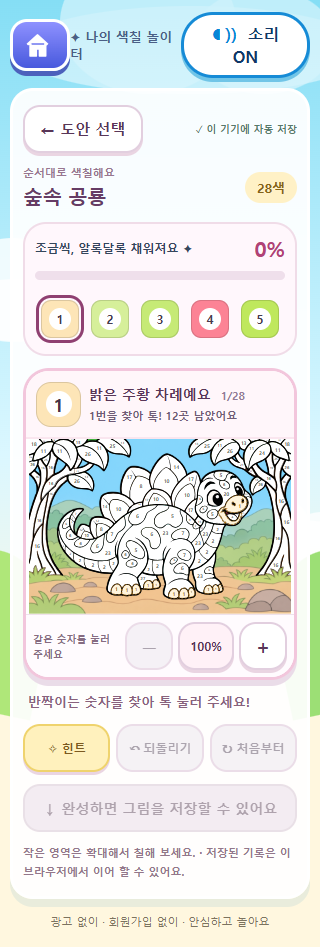
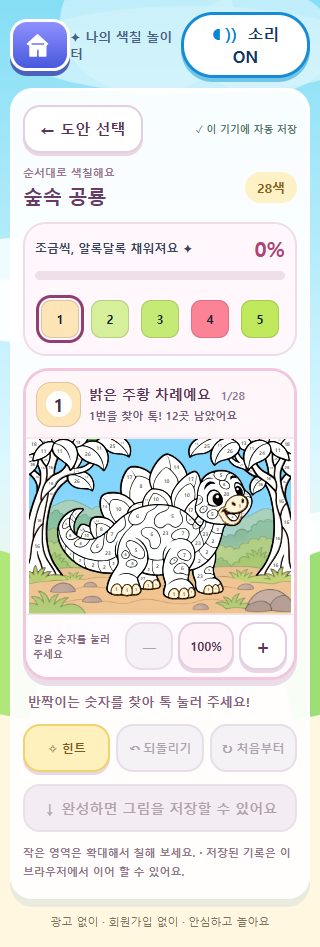
fix: show palette colors clearly and cap all hints at 300 percent

diff --git a/src/games/coloring/coloring.css b/src/games/coloring/coloring.css
@@ -1,5 +1,5 @@
 .coloring-game{--cg-ink:#593658;--cg-pink:#dc578a;color:#35465c;font-weight:700;width:100%;min-width:0}.coloring-game *{box-sizing:border-box}.coloring-game h1,.coloring-game h2,.coloring-game p{margin:0}.coloring-game button{cursor:pointer;min-height:48px;border:2px solid #e2cfdf;border-radius:17px;background:#fff;color:#593658;padding:10px 15px;box-shadow:0 3px 0 #ead5e2;font-size:15px}.coloring-game button:disabled{cursor:default;color:#887e8c;background:#f1edf2;box-shadow:none;opacity:.7}.coloring-game button:hover:not(:disabled){background:#fff1f7}.coloring-game button:focus-visible{outline:4px solid #146cad;outline-offset:3px}.coloring-game .artwork{display:block;width:100%;height:auto}.gallery-heading{display:flex;align-items:center;justify-content:space-between;padding:15px 28px 22px}.cg-eyebrow{color:#9a5276;font-size:13px;letter-spacing:.05em;margin-bottom:8px!important}.gallery-heading h2{font-size:clamp(24px,3vw,36px);color:#763b63;letter-spacing:-.06em;margin-bottom:10px}.gallery-heading p:last-child{font-size:15px;color:#69788c}.gallery-sticker{display:grid;place-items:center;width:85px;height:85px;border-radius:26px;background:#ffe4b6;border:4px solid #fff;color:#cf7b30;font-size:55px;transform:rotate(12deg);box-shadow:0 5px 0 #f3d499}.drawing-grid{display:grid;grid-template-columns:repeat(5,minmax(0,1fr));gap:16px}.coloring-game .drawing-card{padding:12px 12px 16px;border:3px solid #edb6cf;border-radius:28px;background:#fff5fa;display:flex;align-items:center;flex-direction:column;gap:12px;min-width:0;box-shadow:0 6px 0 #edc7d5}.drawing-preview{display:block;width:100%;background:#fff;border-radius:18px;overflow:hidden;border:1px solid #ecdfe7}.drawing-preview .artwork{aspect-ratio:4/5;object-fit:contain}.drawing-card strong{font-size:18px;letter-spacing:-.05em;color:#633f62}.drawing-meta{font-size:12px;color:#7c6377}.drawing-start{background:#fff;border-radius:20px;padding:9px 12px;color:#ad426f;font-size:13px;width:100%;border:1px solid #eed2e2}.drawing-start span{margin-left:5px}.coloring-game .drawing-mint{background:#edfbf5;border-color:#aadfca;box-shadow:0 6px 0 #c4e8d8}.coloring-game .drawing-lemon{background:#fffbe6;border-color:#f0d877;box-shadow:0 6px 0 #efe1a9}.coloring-game .drawing-lavender{background:#f5edff;border-color:#cdb2e8;box-shadow:0 6px 0 #decdf2}.coloring-game .drawing-peach{background:#fff0e9;border-color:#edc3aa;box-shadow:0 6px 0 #f2d7c6}.gallery-note{text-align:center;color:#856377;font-size:13px;padding:25px 10px 5px;line-height:1.7}
-.coloring{display:grid;grid-template-columns:minmax(0,1fr) 300px;grid-template-areas:'heading heading' 'title title' 'canvas progress' 'canvas message' 'canvas actions' 'canvas download' 'canvas note';grid-template-rows:auto auto auto auto auto auto 1fr;gap:12px 20px;min-width:0}.coloring-heading{grid-area:heading;display:flex;align-items:center;justify-content:space-between;gap:10px}.save-status{font-size:12px;color:#57796b}.drawing-title{grid-area:title;display:flex;align-items:center;justify-content:space-between;min-width:0}.drawing-title h1{font-size:23px;color:#663c65;letter-spacing:-.04em}.eyebrow{font-size:11px;color:#987691;display:block;margin-bottom:3px}.drawing-size{background:#fff1c6;color:#856219;border-radius:18px;font-size:13px;padding:7px 12px}.progress-panel{grid-area:progress;background:#fff7fc;border:2px solid #f0dce8;padding:15px;border-radius:23px;min-width:0}.progress-top{display:flex;justify-content:space-between;gap:5px;font-size:12px;align-items:center}.progress-top strong{font-size:21px;color:#b24277}.progress-track{height:9px;background:#efdfeb;border-radius:20px;margin:9px 0 14px;overflow:hidden}.progress-track>span{display:block;height:100%;background:linear-gradient(90deg,#f7abbd,#ce6caf);border-radius:20px}.palette{display:grid;grid-template-columns:repeat(7,minmax(0,1fr));gap:9px;padding:5px;max-height:245px;overflow:auto}.color-chip{min-width:0;aspect-ratio:1;border-radius:10px;display:grid;place-items:center;border:1px solid #0002;position:relative}.color-chip>span:not(.sr-only){background:#fff;border-radius:50%;width:22px;height:22px;display:grid;place-items:center;font-size:12px;color:#493b50}.color-chip.selected{outline:3px solid #8f4071;outline-offset:2px}.canvas-panel{grid-area:canvas;min-width:0;border:3px solid #f2c6dc;background:#fff;border-radius:26px;overflow:hidden;box-shadow:0 6px 0 #eadce8;align-self:start}.current-instruction{display:flex;align-items:center;gap:10px;padding:10px 15px;border-bottom:2px solid #fae6ef;background:#fff6fa;min-height:68px}.current-number{width:45px;height:45px;border-radius:15px;display:grid;place-items:center;flex-shrink:0;border:1px solid #0002}.current-number>span{color:#443346;background:#fff;border-radius:50%;width:26px;height:26px;display:grid;place-items:center;font-size:18px}.current-instruction>div{display:flex;flex-direction:column;gap:5px;font-size:12px;color:#705c77}.current-instruction strong{font-size:16px;color:#593658}.step-count{font-size:11px;color:#947c98;margin-left:5px}.canvas-tag{margin-left:auto;font-size:11px;background:#fff;border-radius:14px;padding:7px 10px;white-space:nowrap;color:#9a7090}.canvas-scroll{--canvas-height:clamp(300px,calc(100svh - 327px),660px);--canvas-width:calc(var(--canvas-height)*var(--art-ratio));height:var(--canvas-height);overflow:auto;overscroll-behavior:contain;touch-action:pan-x pan-y pinch-zoom;background:radial-gradient(#efdfeb 1px,transparent 1px) 0 0/18px 18px}.canvas-scale{margin:0 auto}.canvas-panel .artwork{background:#fff}.paint-region{cursor:pointer;transition:fill .12s;touch-action:manipulation}.paint-region[data-painted=true]{cursor:default}.paint-region.is-current{stroke:#bd843a;stroke-width:3;stroke-dasharray:8 6;fill:#fff4dc}.paint-region.is-hint{stroke:#217ba4;stroke-width:6;fill:#ffdf83}.paint-region:focus-visible{outline:none;stroke:#086fa7;stroke-width:7}.zoom-tools{display:flex;justify-content:space-between;align-items:center;gap:8px;padding:6px 10px;border-top:1px solid #f0e2eb;background:#fffbfe}.zoom-tools>span{font-size:11px;color:#866b82}.zoom-tools>div{display:flex;gap:5px}.coloring-game .icon-button{min-width:48px;padding:5px;font-size:20px;min-height:48px}.coloring-game .zoom-label{min-width:56px;padding:4px;font-size:12px}.encouragement{grid-area:message;min-height:43px;font-size:13px;line-height:1.6;color:#89627d;padding:0 5px}.action-bar{grid-area:actions;display:grid;grid-template-columns:repeat(2,minmax(0,1fr));gap:10px}.coloring-game .action-bar button{padding:10px 5px;font-size:14px}.coloring-game .action-bar .hint-button{grid-column:1/-1;background:#fff1bd;border-color:#efd36d;color:#7c5a20}.download-button{grid-area:download;background:#da6699!important;color:#fff!important;border-color:#cc5489!important;font-size:14px!important}.download-button:disabled{background:#eee5ed!important;color:#8c7b8b!important;border-color:#e0d3dd!important}.small-note{grid-area:note;font-size:11px;line-height:1.7;color:#93778b}.storage-warning{grid-column:1/-1;background:#fff1ca;color:#7d5b16;padding:10px;border-radius:15px;font-size:13px}.coloring-game dialog{position:fixed;width:430px;max-width:calc(100% - 30px);border:3px solid #edb4d1;border-radius:30px;padding:28px;background:#fff9fd;text-align:center;box-shadow:0 12px 60px #503b5a55;color:#653c5e;max-height:90svh;overflow:auto}.coloring-game dialog::backdrop{background:#28446b66;backdrop-filter:blur(3px)}.coloring-game dialog h2{font-size:23px}.coloring-game dialog p{font-size:14px;line-height:1.8;margin:20px 0}.dialog-actions{display:flex;flex-direction:column;gap:12px}.coloring-game dialog .primary{background:#da6699;color:white;border-color:#c64c85}.trophy{font-size:65px;padding:15px}.confetti{display:none}.done-star{background:#ffe49a;color:#a27427}.is-playing{padding-top:12px!important}.is-playing .toolbar{max-width:1480px;margin:0 auto 10px;align-items:center}.is-playing .home{min-height:52px;min-width:60px;padding:5px 12px;border-radius:17px;flex-direction:row;gap:6px}.is-playing .home svg{width:25px;height:25px}.is-playing .sound{min-height:48px;font-size:16px;padding:8px 14px}.playing-name{color:#4a5f86;font-size:17px}.is-playing .game-shell{padding:18px 22px 20px;background:#ffffffed;border:3px solid #fff;border-radius:30px;box-shadow:0 8px 0 #6aaecb25;min-height:0}.is-playing footer{padding-top:15px;font-size:11px}.card:not(:disabled){cursor:pointer}.card:not(:disabled):hover{filter:brightness(1.03)}
+.coloring{display:grid;grid-template-columns:minmax(0,1fr) 300px;grid-template-areas:'heading heading' 'title title' 'canvas progress' 'canvas message' 'canvas actions' 'canvas download' 'canvas note';grid-template-rows:auto auto auto auto auto auto 1fr;gap:12px 20px;min-width:0}.coloring-heading{grid-area:heading;display:flex;align-items:center;justify-content:space-between;gap:10px}.save-status{font-size:12px;color:#57796b}.drawing-title{grid-area:title;display:flex;align-items:center;justify-content:space-between;min-width:0}.drawing-title h1{font-size:23px;color:#663c65;letter-spacing:-.04em}.eyebrow{font-size:11px;color:#987691;display:block;margin-bottom:3px}.drawing-size{background:#fff1c6;color:#856219;border-radius:18px;font-size:13px;padding:7px 12px}.progress-panel{grid-area:progress;background:#fff7fc;border:2px solid #f0dce8;padding:15px;border-radius:23px;min-width:0}.progress-top{display:flex;justify-content:space-between;gap:5px;font-size:12px;align-items:center}.progress-top strong{font-size:21px;color:#b24277}.progress-track{height:9px;background:#efdfeb;border-radius:20px;margin:9px 0 14px;overflow:hidden}.progress-track>span{display:block;height:100%;background:linear-gradient(90deg,#f7abbd,#ce6caf);border-radius:20px}.palette{display:grid;grid-template-columns:repeat(7,minmax(0,1fr));gap:9px;padding:5px;max-height:245px;overflow:auto}.color-chip{min-width:0;aspect-ratio:1;border-radius:10px;display:grid;place-items:center;border:1px solid #0002;position:relative}.color-chip>span:not(.sr-only){background:transparent;border-radius:50%;width:22px;height:22px;display:grid;place-items:center;font-size:12px;color:inherit}.color-chip.selected{outline:3px solid #8f4071;outline-offset:2px}.canvas-panel{grid-area:canvas;min-width:0;border:3px solid #f2c6dc;background:#fff;border-radius:26px;overflow:hidden;box-shadow:0 6px 0 #eadce8;align-self:start}.current-instruction{display:flex;align-items:center;gap:10px;padding:10px 15px;border-bottom:2px solid #fae6ef;background:#fff6fa;min-height:68px}.current-number{width:45px;height:45px;border-radius:15px;display:grid;place-items:center;flex-shrink:0;border:1px solid #0002}.current-number>span{color:#443346;background:#fff;border-radius:50%;width:26px;height:26px;display:grid;place-items:center;font-size:18px}.current-instruction>div{display:flex;flex-direction:column;gap:5px;font-size:12px;color:#705c77}.current-instruction strong{font-size:16px;color:#593658}.step-count{font-size:11px;color:#947c98;margin-left:5px}.canvas-tag{margin-left:auto;font-size:11px;background:#fff;border-radius:14px;padding:7px 10px;white-space:nowrap;color:#9a7090}.canvas-scroll{--canvas-height:clamp(300px,calc(100svh - 327px),660px);--canvas-width:calc(var(--canvas-height)*var(--art-ratio));height:var(--canvas-height);overflow:auto;overscroll-behavior:contain;touch-action:pan-x pan-y pinch-zoom;background:radial-gradient(#efdfeb 1px,transparent 1px) 0 0/18px 18px}.canvas-scale{margin:0 auto}.canvas-panel .artwork{background:#fff}.paint-region{cursor:pointer;transition:fill .12s;touch-action:manipulation}.paint-region[data-painted=true]{cursor:default}.paint-region.is-current{stroke:#bd843a;stroke-width:3;stroke-dasharray:8 6;fill:#fff4dc}.paint-region.is-hint{stroke:#217ba4;stroke-width:6;fill:#ffdf83}.paint-region:focus-visible{outline:none;stroke:#086fa7;stroke-width:7}.zoom-tools{display:flex;justify-content:space-between;align-items:center;gap:8px;padding:6px 10px;border-top:1px solid #f0e2eb;background:#fffbfe}.zoom-tools>span{font-size:11px;color:#866b82}.zoom-tools>div{display:flex;gap:5px}.coloring-game .icon-button{min-width:48px;padding:5px;font-size:20px;min-height:48px}.coloring-game .zoom-label{min-width:56px;padding:4px;font-size:12px}.encouragement{grid-area:message;min-height:43px;font-size:13px;line-height:1.6;color:#89627d;padding:0 5px}.action-bar{grid-area:actions;display:grid;grid-template-columns:repeat(2,minmax(0,1fr));gap:10px}.coloring-game .action-bar button{padding:10px 5px;font-size:14px}.coloring-game .action-bar .hint-button{grid-column:1/-1;background:#fff1bd;border-color:#efd36d;color:#7c5a20}.download-button{grid-area:download;background:#da6699!important;color:#fff!important;border-color:#cc5489!important;font-size:14px!important}.download-button:disabled{background:#eee5ed!important;color:#8c7b8b!important;border-color:#e0d3dd!important}.small-note{grid-area:note;font-size:11px;line-height:1.7;color:#93778b}.storage-warning{grid-column:1/-1;background:#fff1ca;color:#7d5b16;padding:10px;border-radius:15px;font-size:13px}.coloring-game dialog{position:fixed;width:430px;max-width:calc(100% - 30px);border:3px solid #edb4d1;border-radius:30px;padding:28px;background:#fff9fd;text-align:center;box-shadow:0 12px 60px #503b5a55;color:#653c5e;max-height:90svh;overflow:auto}.coloring-game dialog::backdrop{background:#28446b66;backdrop-filter:blur(3px)}.coloring-game dialog h2{font-size:23px}.coloring-game dialog p{font-size:14px;line-height:1.8;margin:20px 0}.dialog-actions{display:flex;flex-direction:column;gap:12px}.coloring-game dialog .primary{background:#da6699;color:white;border-color:#c64c85}.trophy{font-size:65px;padding:15px}.confetti{display:none}.done-star{background:#ffe49a;color:#a27427}.is-playing{padding-top:12px!important}.is-playing .toolbar{max-width:1480px;margin:0 auto 10px;align-items:center}.is-playing .home{min-height:52px;min-width:60px;padding:5px 12px;border-radius:17px;flex-direction:row;gap:6px}.is-playing .home svg{width:25px;height:25px}.is-playing .sound{min-height:48px;font-size:16px;padding:8px 14px}.playing-name{color:#4a5f86;font-size:17px}.is-playing .game-shell{padding:18px 22px 20px;background:#ffffffed;border:3px solid #fff;border-radius:30px;box-shadow:0 8px 0 #6aaecb25;min-height:0}.is-playing footer{padding-top:15px;font-size:11px}.card:not(:disabled){cursor:pointer}.card:not(:disabled):hover{filter:brightness(1.03)}
 @media(min-width:1000px){.is-playing .game-shell{min-height:calc(100svh - 122px)}}
 @media(min-width:701px) and (max-height:650px){.coloring{grid-template-columns:minmax(0,1fr) 270px;gap:9px 14px}.canvas-scroll{--canvas-height:300px}.palette{max-height:185px;gap:7px}.coloring-game .drawing-card{gap:8px}.drawing-card strong{font-size:15px}.gallery-heading{padding:5px 10px 16px}.gallery-sticker{width:55px;height:55px;font-size:40px}.drawing-grid{gap:10px}}
 @media(max-width:1000px) and (min-width:701px){.drawing-grid{grid-template-columns:repeat(3,minmax(0,1fr))}.coloring{grid-template-columns:minmax(0,1fr) 250px}.palette{gap:7px}.canvas-tag{display:none}.drawing-title h1{font-size:21px}.is-playing .game-shell{padding:15px}}

diff --git a/src/games/coloring/Coloring.tsx b/src/games/coloring/Coloring.tsx
@@ -4,6 +4,15 @@ import type { Drawing } from './data/drawings'
 import { activeColor, paint, progress, readProgress, saveProgress } from './engine'
 import { exportPng } from './export'
 
+function paletteTextColor(hex: string) {
+  const rgb = hex.replace('#', '').match(/../g)!.map(part => {
+    const value = parseInt(part, 16) / 255
+    return value <= 0.04045 ? value / 12.92 : ((value + 0.055) / 1.055) ** 2.4
+  })
+  const luminance = rgb[0] * 0.2126 + rgb[1] * 0.7152 + rgb[2] * 0.0722
+  return luminance > 0.179 ? '#000000' : '#ffffff'
+}
+
 function Dialog({
   title,
   children,
@@ -55,7 +64,7 @@ export function Coloring({
   const paletteRef = useRef<HTMLDivElement>(null)
   const stageRef = useRef<HTMLDivElement>(null)
   const hintTimer = useRef<ReturnType<typeof setTimeout> | undefined>(undefined)
-  const maxZoom = drawing.maxZoom ?? 3
+  const maxZoom = 3
   const current = activeColor(drawing, history)
   const complete = !current
   const remaining = drawing.regions.filter(
@@ -109,28 +118,12 @@ export function Coloring({
     clearTimeout(hintTimer.current)
     setHintId(region.id)
     setMessage(`${current!.id}번이 반짝반짝! 이곳을 눌러 보세요.`)
-    // Small independent cells need a usable touch target; center them without painting.
+    // Every hint uses the same 300% view and centers the target.
     const stage = stageRef.current
-    const svg = svgRef.current
-    const baseHeight = svg ? svg.getBoundingClientRect().height / zoom : 0
-    const scale = baseHeight / drawing.viewBox[3]
-    const targetZoom =
-      region.touchRadius && scale > 0
-        ? Math.min(
-            maxZoom,
-            Math.max(
-              1,
-              Math.ceil((48 / (2 * region.touchRadius * scale)) * 2) / 2,
-            ),
-          )
-        : 1
+    const targetZoom = maxZoom
     setZoom(targetZoom)
     requestAnimationFrame(() => {
       if (!stage) return
-      if (targetZoom === 1) {
-        stage.scrollTo({ top: 0, left: 0 })
-        return
-      }
       const path = svgRef.current?.querySelector<SVGPathElement>(
         `[data-region="${region.id}"]`,
       )
@@ -219,7 +212,7 @@ export function Coloring({
             <span
               key={color.id}
               className={`color-chip ${color.id === current?.id ? 'selected' : ''}`}
-              style={{ backgroundColor: color.hex }}
+              style={{ backgroundColor: color.hex, color: paletteTextColor(color.hex) }}
               aria-label={`${color.id}번 ${color.name}${color.id === current?.id ? ', 현재 색상' : ''}`}
               aria-current={color.id === current?.id ? 'step' : undefined}
             >

diff --git a/tests/palette-zoom.spec.ts b/tests/palette-zoom.spec.ts
@@ -1,0 +1,27 @@
+import {test, expect} from '@playwright/test'
+import {drawings} from '../src/games/coloring/data/drawings'
+
+for (const drawing of Object.values(drawings)) test(`${drawing.id}: visible palette and fixed 300 percent hint`, async ({page}) => {
+  await page.setViewportSize({width:1280,height:800})
+  await page.goto('./')
+  await page.getByRole('button',{name:'순서대로 색칠놀이',exact:true}).click()
+  await page.getByRole('button',{name:`${drawing.title}, ${drawing.colors.length}색, 색칠하기`,exact:true}).click()
+  const colors=await page.locator('.color-chip').evaluateAll(chips=>chips.map(chip=>{
+    const label=chip.querySelector('span')!
+    return {background:getComputedStyle(chip).backgroundColor,labelBackground:getComputedStyle(label).backgroundColor,text:getComputedStyle(label).color}
+  }))
+  expect(new Set(colors.map(c=>c.background)).size).toBeGreaterThan(15)
+  for(const c of colors){expect(c.labelBackground).toBe('rgba(0, 0, 0, 0)');expect(c.text).not.toBe(c.background)}
+  const zoom=page.getByRole('button',{name:'원래 크기로',exact:true})
+  for(let i=0;i<4;i++) await page.getByRole('button',{name:'확대',exact:true}).click()
+  await expect(zoom).toHaveText('300%')
+  await expect(page.getByRole('button',{name:'확대',exact:true})).toBeDisabled()
+  await zoom.click()
+  await page.getByRole('button',{name:'힌트',exact:true}).click()
+  await expect(zoom).toHaveText('300%')
+  await page.getByRole('button',{name:'축소',exact:true}).click()
+  await expect(zoom).toHaveText('250%')
+  await page.getByRole('button',{name:'힌트',exact:true}).click()
+  await expect(zoom).toHaveText('300%')
+  await page.screenshot({path:`docs/palette-zoom-${drawing.id}.png`,fullPage:true})
+})
